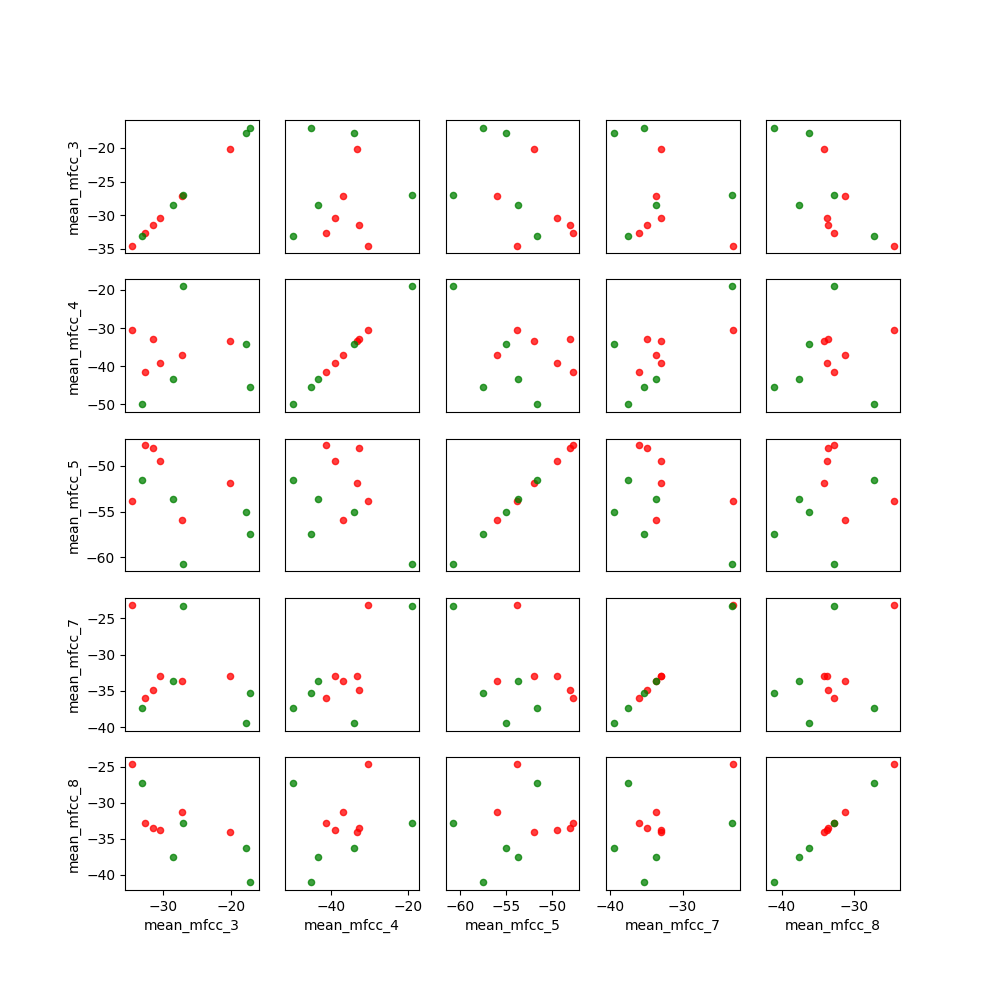
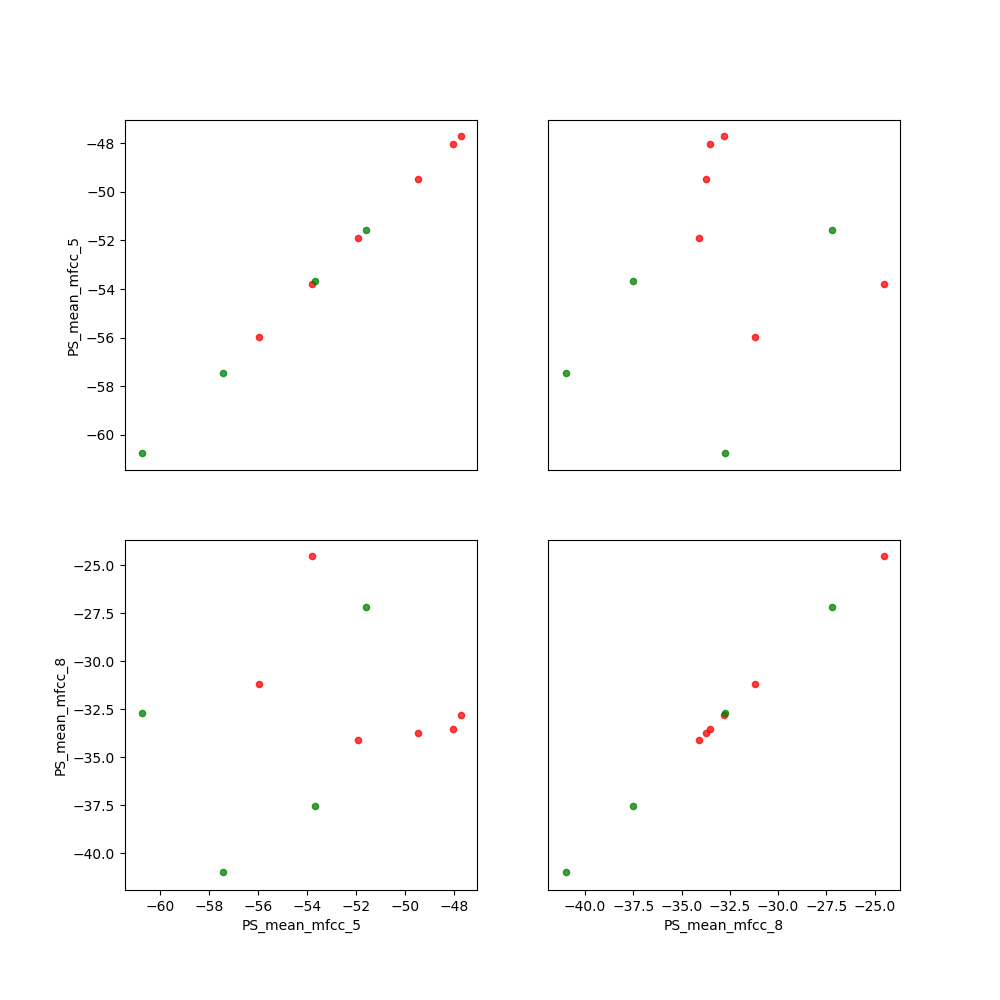
Split bs and ps features

diff --git a/analysis/general_feature_analysis3.py b/analysis/general_feature_analysis3.py
@@ -10,18 +10,32 @@ from scipy.cluster.vq import vq, kmeans, whiten
 from sklearn.neighbors import KNeighborsClassifier
 
 ######THE FOLLOWING ARE DEFAULT SETTINGS FOR run_analysis()##########
-audio_features = ['mean_mfcc_0',
-                'mean_mfcc_1',
-                'mean_mfcc_2',
-                'mean_mfcc_3',
-                'mean_mfcc_4',
-                'mean_mfcc_5',
-                'mean_mfcc_7',
-                'mean_mfcc_8',
-                'mean_mfcc_9',
-                'mean_mfcc_10',
-                'mean_mfcc_11',
-                'mean_centroid']
+audio_features = [
+                'PS_mean_mfcc_0',
+                'PS_mean_mfcc_1',
+                'PS_mean_mfcc_2',
+                'PS_mean_mfcc_3',
+                'PS_mean_mfcc_4',
+                'PS_mean_mfcc_5',
+                'PS_mean_mfcc_7',
+                'PS_mean_mfcc_8',
+                'PS_mean_mfcc_9',
+                'PS_mean_mfcc_10',
+                'PS_mean_mfcc_11',
+                'PS_mean_centroid',
+                # 'BS_mean_mfcc_0',
+                # 'BS_mean_mfcc_1',
+                # 'BS_mean_mfcc_2',
+                # 'BS_mean_mfcc_3',
+                # 'BS_mean_mfcc_4',
+                # 'BS_mean_mfcc_5',
+                # 'BS_mean_mfcc_7',
+                # 'BS_mean_mfcc_8',
+                # 'BS_mean_mfcc_9',
+                # 'BS_mean_mfcc_10',
+                # 'BS_mean_mfcc_11',
+                # 'BS_mean_centroid',
+                ]
 
 clinical_features = [
     'age',
@@ -43,11 +57,8 @@ clinical_features = [
 
 freq_features = audio_features + clinical_features
 
-visual_sample = ['mean_mfcc_3',
-                'mean_mfcc_4',
-                'mean_mfcc_5',
-                'mean_mfcc_7',
-                'mean_mfcc_8']
+visual_sample = ['PS_mean_mfcc_5',
+                'PS_mean_mfcc_8']
 
 #####################################################################
 
@@ -87,8 +98,8 @@ class Analysis():
 
         pca = PCA(n_components = n_comp)
         pca.fit(df)
-        print("Explained variance by principle components")
-        print(pca.explained_variance_ratio_)
+        # print("Explained variance by principle components")
+        # print(pca.explained_variance_ratio_)
         self.models['pca'] = pca
 
     #this trains a knn for the analysis.
@@ -215,6 +226,8 @@ def run_analysis(file_in = '/Users/samuelzetumer/Desktop/tabla-master/features/f
     knn_cols = ['{0}_knn_vote'.format(str(i)) for i in df.loc[:,class_id].unique()]
     knn_df = pd.DataFrame(knn_results, columns = knn_cols)
     knn_score = a1.models['knn'].score(df.loc[:,features],df.loc[:,class_id])
+    #print knn_score
+    #return
 
     #now knn on pca'ed coordinates
     df2 = pd.concat([pd.DataFrame(reduced_df), df.loc[:,class_id]], axis=1)

diff --git a/run_features.py b/run_features.py
@@ -51,18 +51,18 @@ def get_patient_ids(path, study):
     return patient_ids
 
 
-file = open(audio_features_path, "w")
-create_header=True
-for patient_id in get_patient_ids('%s/healthy' % in_root, 'HA'):
-    write_features(file, patient_id, '%s/healthy/%s' % (in_root, patient_id), create_header)
-    if create_header:
-        create_header=False
+# file = open(audio_features_path, "w")
+# create_header=True
+# for patient_id in get_patient_ids('%s/healthy' % in_root, 'HA'):
+#     write_features(file, patient_id, '%s/healthy/%s' % (in_root, patient_id), create_header)
+#     if create_header:
+#         create_header=False
 
-for patient_id in get_patient_ids('%s/ed' % in_root, 'ED'):
-    write_features(file, patient_id, '%s/ed/%s' % (in_root, patient_id), create_header)
+# for patient_id in get_patient_ids('%s/ed' % in_root, 'ED'):
+#     write_features(file, patient_id, '%s/ed/%s' % (in_root, patient_id), create_header)
 
 # Process metadata
-metadata.process_metadata(metadata_path, metadata_features_path)
+# metadata.process_metadata(metadata_path, metadata_features_path)
 
 # Merge audio and metadata features
 audio_features = pd.read_csv(audio_features_path)

diff --git a/run_analysis.py b/run_analysis.py
@@ -3,11 +3,13 @@ import os
 sys.path.append('./analysis')
 import general_feature_analysis3 as ga
 
-ga.run_analysis(file_in = 'features/features.csv',
-                path_out = 'analysis/',
-                class_id = 'lung_disease',
-                features = ga.freq_features,
-                n_comp_pca = 5,
-                k_neighbors = 4,
-                visual_features = ga.visual_sample,
-                visual_file_1 = 'viz1.png')
+#for i in range(1, 8):
+#	print "KNN: %d" % i
+	ga.run_analysis(file_in = 'features/features.csv',
+	                path_out = 'analysis/',
+	                class_id = 'lung_disease',
+	                features = ga.freq_features,
+	                n_comp_pca = 5,
+	                k_neighbors = 3,
+	                visual_features = ga.visual_sample,
+	                visual_file_1 = 'viz1.png')

diff --git a/features/centroid.py b/features/centroid.py
@@ -21,9 +21,9 @@ def get_features_for_type(patient_dir, recording_type):
 	features = []
 	headers = []
 	for recording in recordings:
-		hs, features = _get_features("%s/%s/%s" % (patient_dir, recording_type, recording), recording_type)
+		hs, f = _get_features("%s/%s/%s" % (patient_dir, recording_type, recording), recording_type)
 		headers = hs
-		features.append(features)
+		features.append(f)
 	average_features = np.mean(features, axis=0)
 	return headers, average_features.tolist()
 
